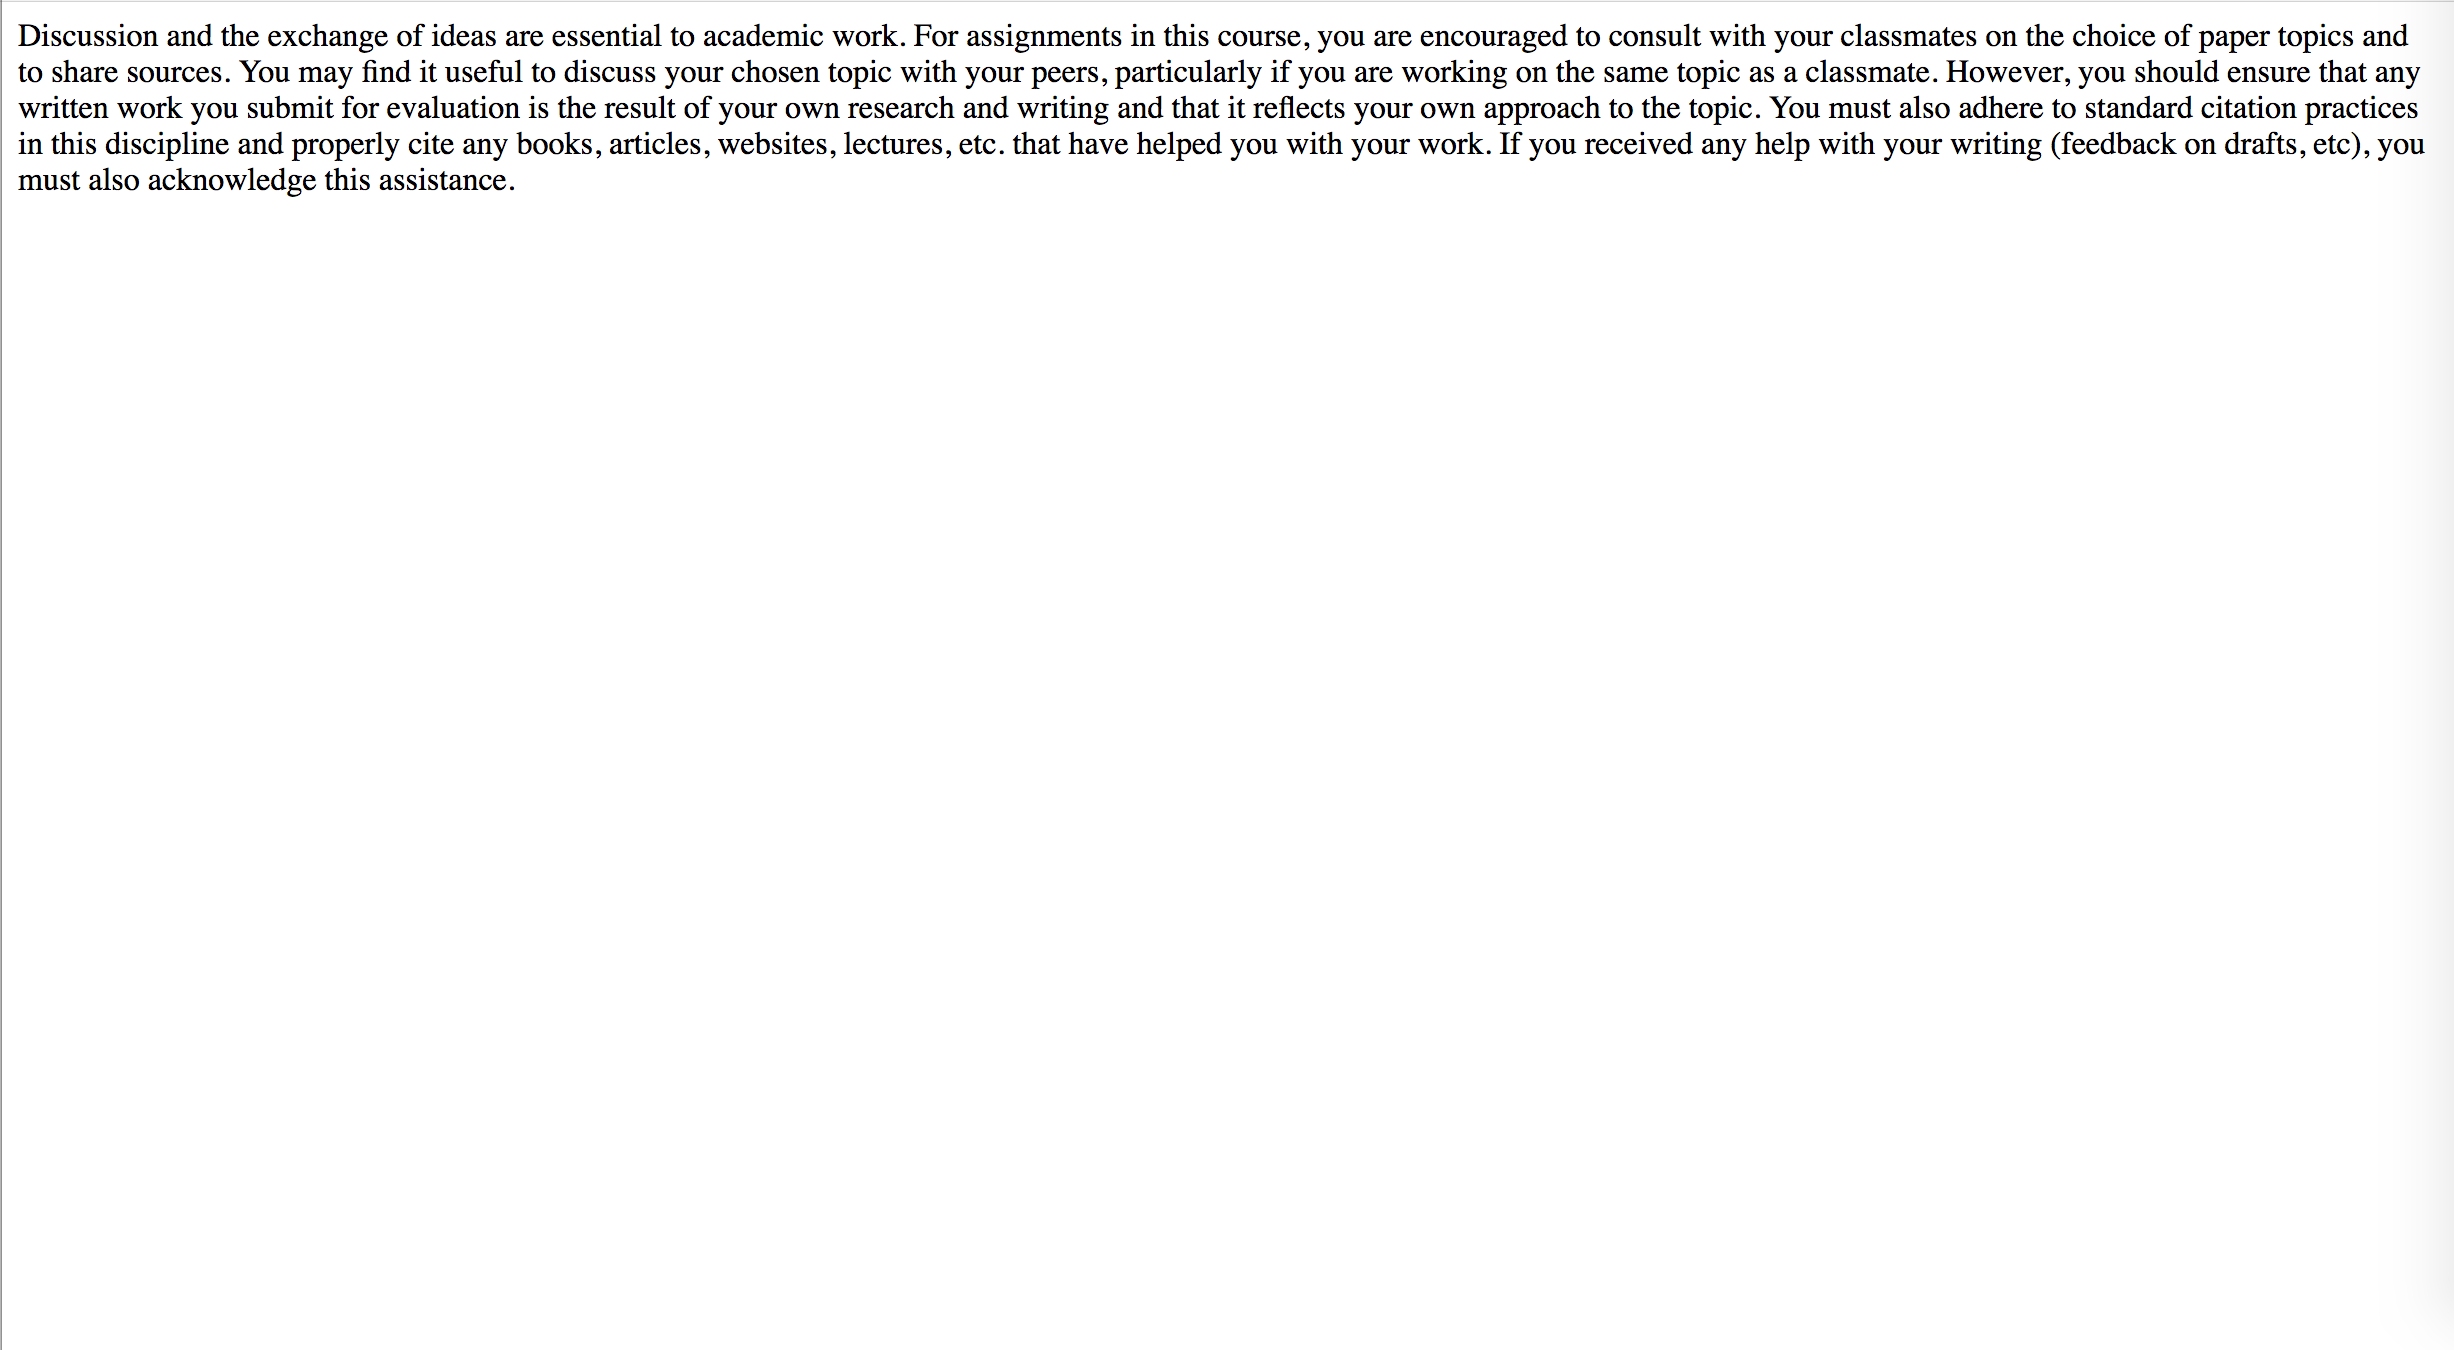
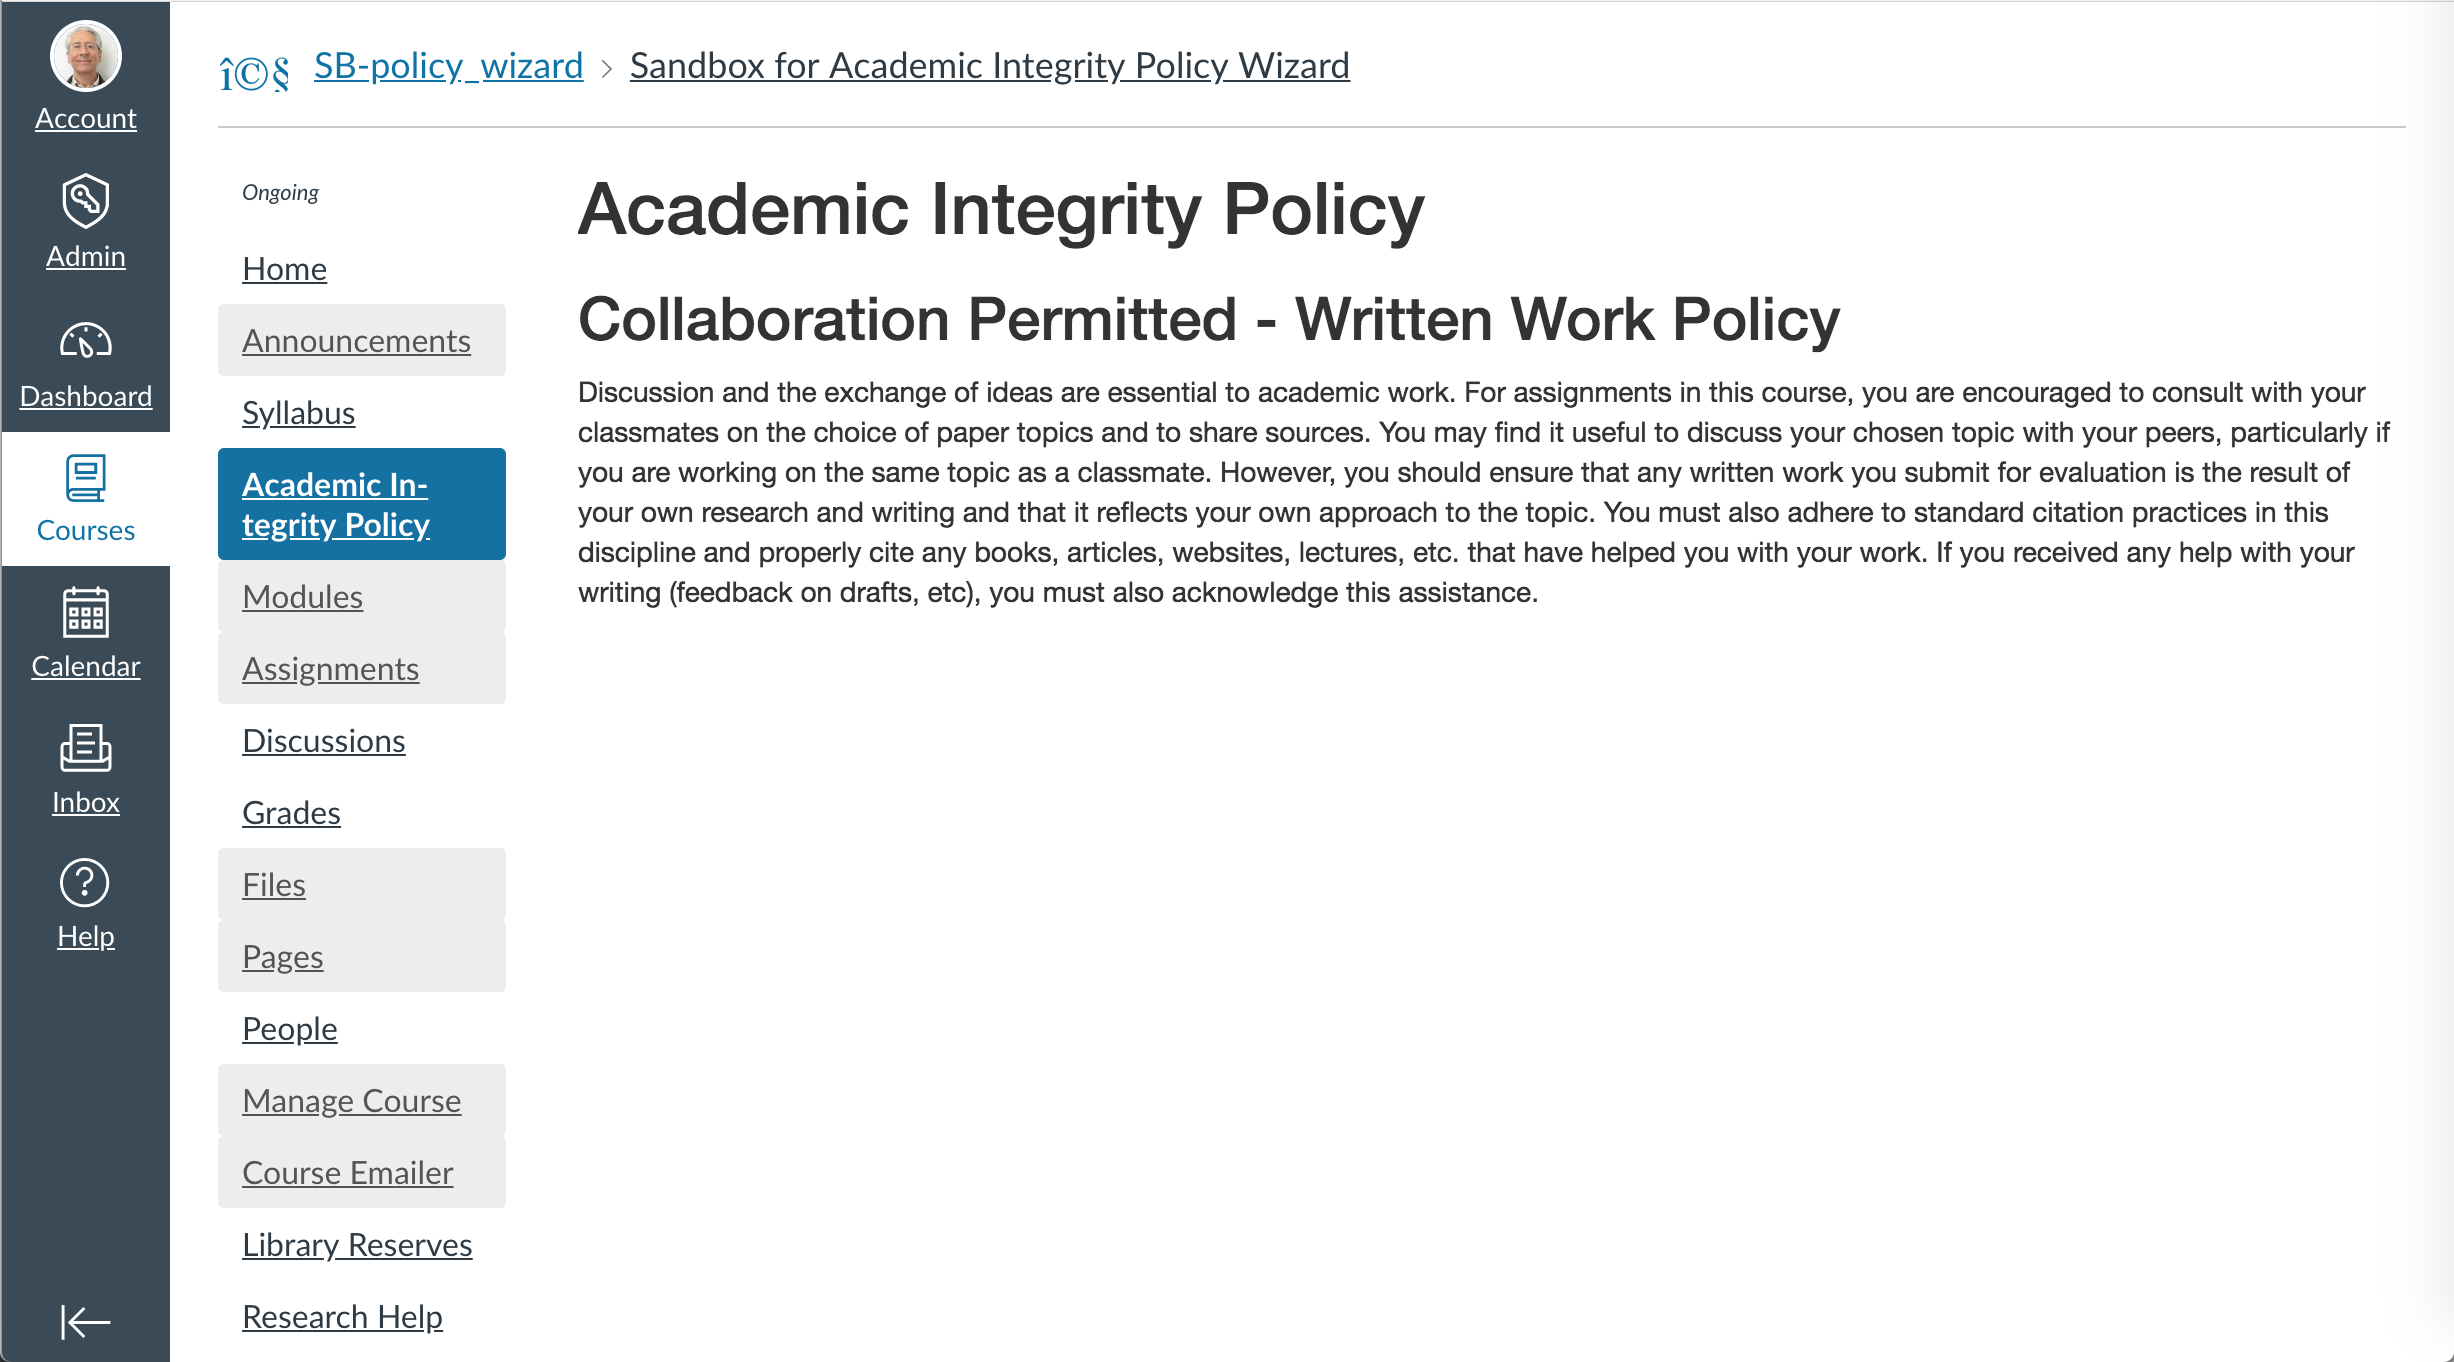
Add files via upload
Screen capture and UI code of proposed interface for student's view of a policy

Changed region(s): [[0.0, 0.0, 0.991, 1.0], [0.2168, 0.2178, 0.7433, 0.2489], [0.991, 0.9956, 1.0, 1.0]]

diff --git a/ui/AcademicIntegrityPolicy_student/index.html b/ui/AcademicIntegrityPolicy_student/index.html
@@ -1,3 +1,35 @@
-<!-- HTML for a student's view of a published policy.-->
+<!--There are 4 UI comments on this commit-->
+<html>
+    <head>
+        <title>Academic Integrity Policy</title>
 
-<p>Discussion and the exchange of ideas are essential to academic work. For assignments in this course, you are encouraged to consult with your classmates on the choice of paper topics and to share sources. You may find it useful to discuss your chosen topic with your peers, particularly if you are working on the same topic as a classmate. However, you should ensure that any written work you submit for evaluation is the result of your own research and writing and that it reflects your own approach to the topic. You must also adhere to standard citation practices in this discipline and properly cite any books, articles, websites, lectures, etc. that have helped you with your work. If you received any help with your writing (feedback on drafts, etc), you must also acknowledge this assistance.</p>
+        <link data-turbolinks-track="true" href="/assets/application-f2426e026c85d83f4d4ec5be1c26ee81.css" media="all" rel="stylesheet">
+
+<!--UI comment #1 - I am leaving here the scripts and meta tags from Canvas. Aside from the Bootstrap and Fontawesome links I added, I am bnot sure we need these what I added-->
+        <script data-turbolinks-track="true" src="/assets/application-2671af1f4fe139755faa78265733f653.js"></script>
+        <script src="/js/tinymce/tinymce.min.js" type="text/javascript"></script>
+<!-- UI comment #2 - Font Awesome-->
+        <link href="https://maxcdn.bootstrapcdn.com/font-awesome/4.7.0/css/font-awesome.min.css" rel="stylesheet">
+<!-- UI comment #3 - Bootstrap core CSS. I also added Boostrap LS by the end of the body tag -->
+        <link href="https://maxcdn.bootstrapcdn.com/bootstrap/3.3.7/css/bootstrap.min.css" rel="stylesheet">
+
+
+        <meta content="authenticity_token" name="csrf-param">
+        <meta content="d0ccTyXMT8j2cAO95nISg+V5rFAEFJxqMA4Bt0J+zUA=" name="csrf-token">
+    </head>
+    <body>
+
+        <h1>Academic Integrity Policy</h1>
+
+        <h2>Collaboration Permitted - Written Work Policy</h2>
+
+<!--UI comment #4 - Using Bootstrap grid -->
+       <div class="row">
+            <div class="col-sm-12">
+                Discussion and the exchange of ideas are essential to academic work. For assignments in this course, you are encouraged to consult with your classmates on the choice of paper topics and to share sources. You may find it useful to discuss your chosen topic with your peers, particularly if you are working on the same topic as a classmate. However, you should ensure that any written work you submit for evaluation is the result of your own research and writing and that it reflects your own approach to the topic. You must also adhere to standard citation practices in this discipline and properly cite any books, articles, websites, lectures, etc. that have helped you with your work. If you received any help with your writing (feedback on drafts, etc), you must also acknowledge this assistance.
+            </div>
+    </div>
+
+    </body>
+
+</html>
